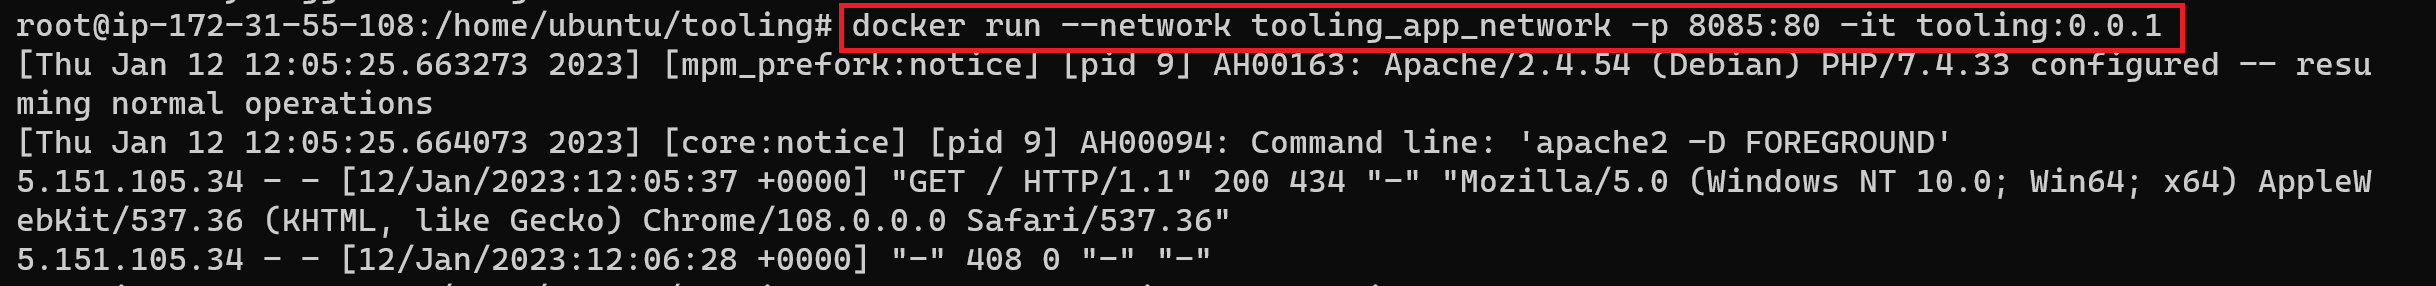
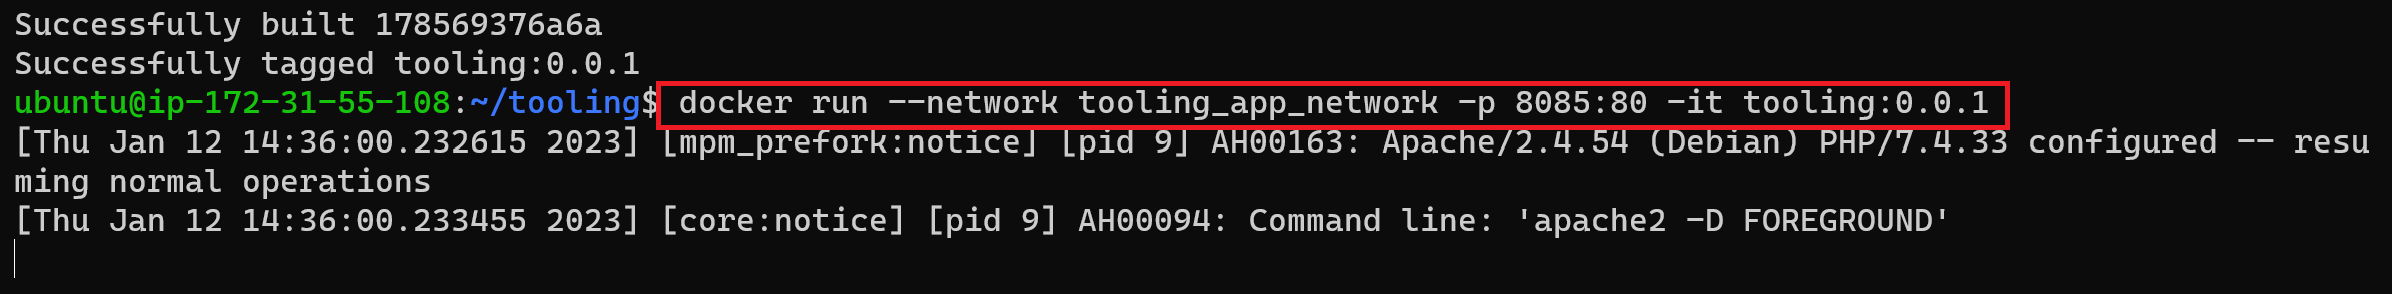
completed

diff --git a/project_20.md b/project_20.md
@@ -67,6 +67,9 @@ _**First Method**_
 # Connect to the mysql database and enter the from the initial step.
 
 docker exec -it mysqldb mysql -uroot -p
+
+# Exit the mysql mode
+exit
 ```
 
 ![mysql](./images/4.png)
@@ -74,7 +77,7 @@ docker exec -it mysqldb mysql -uroot -p
 You are going to use the second method below, so go ahead remove this container.
 
 ```bash
-docker rm -f <your-container-name>
+docker rm -f mysqldb
 ```
 
 **_Second Method_**
@@ -86,7 +89,7 @@ Let's go ahead and create a network
 ```bash
 # Create a new bridge network
 
-docker network create --subnet=172.15.10.0/24 tooling_app_network
+docker network create --subnet=172.18.0.0/24 tooling_app_network
 ```
 
 ![private](./images/5.png)
@@ -154,7 +157,7 @@ git clone https://github.com/oayanda/tooling-1
 You can find the schema in tooling PHP application repo.
 
 ```bash
-ls ~/tooling-1/html/tooling_db_schema.sql
+ls ~/tooling-1/html/
 ```
 
 ![private](./images/9.png)
@@ -192,6 +195,10 @@ vi ~/tooling-1/html/.env
 - MYSQL_PASS mysql password for the user exported as environment varaible
 - MYSQL_DBNAME mysql databse name "toolingdb"
 
+Update the `servername`, `username`, `password`& `databasename` in `db_conn.php` file in `tooling/html` directory
+
+![private](./images/15.png)
+
 Run the Tooling App
 
 You are almost there. Now you need to containerized the Frontend Application as well and then connect it to the Mysql database.
@@ -201,7 +208,7 @@ However, as you now know that you need a Dock image to create a `Container` but 
 > Ensure you are inside the directory "tooling" that has the file Dockerfile and build your container.
 
 ```bash 
-docker build . -t tooling.0.1
+docker build -t tooling:0.0.1 .
 ```
 
 In the above command, we specify a parameter `-t`, so that the image can be tagged "`tooling.0.1`" - Also, you have to notice the `.` at the end. This is important as that tells Docker to locate the `Dockerfile` in the current directory you are running the command. Otherwise, you would need to specify the absolute path to the `Dockerfile`
@@ -211,6 +218,16 @@ In the above command, we specify a parameter `-t`, so that the image can be tagg
 Run the container
 
 ```bash
-docker run --network tooling_app_network -p 8085:80 -it tooling.0.1 
+docker run --network tooling_app_network -p 8085:80 -it tooling:0.0.1 
 ```
 
+![private](./images/16.png)
+
+Ensure to allow port 8085 for a TCP connection in your secuirty group.
+
+![private](./images/17.png)
+
+View the login page in browser
+![private](./images/18.png)
+
+The default email is test@gmail.com, the password is 12345
